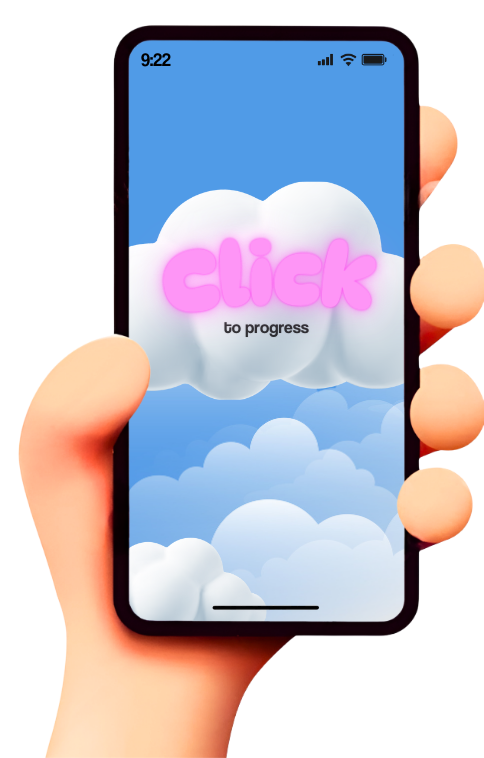
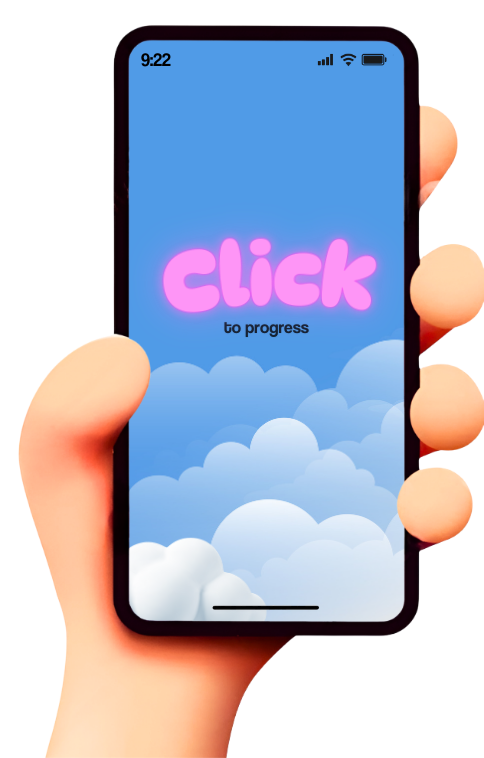
Farben angepasst

Changed region(s): [[0.2479, 0.2124, 0.8368, 0.5462]]

diff --git a/project/style.css b/project/style.css
@@ -84,6 +84,7 @@ body, html {
     opacity: 0; 
     text-shadow: 1px 1px 4px rgba(0, 0, 0, 0.6);
     animation: start-p 1s ease-in-out 2s forwards; 
+    padding-top: 5%;
 }
 
 #infoImg{
@@ -346,7 +347,8 @@ body, html {
 #myBar {
     height: 100%;
     width: 0%;
-    background-color: rgba(47, 146, 227, 0.852);
+    background: #FE95F6;
+background: linear-gradient(350deg, rgba(254, 149, 246, 1) 0%, rgba(45, 156, 196, 1) 100%);
     transition: width 0.3s ease-in-out;
     text-align: left;
     padding-left: 10px;
